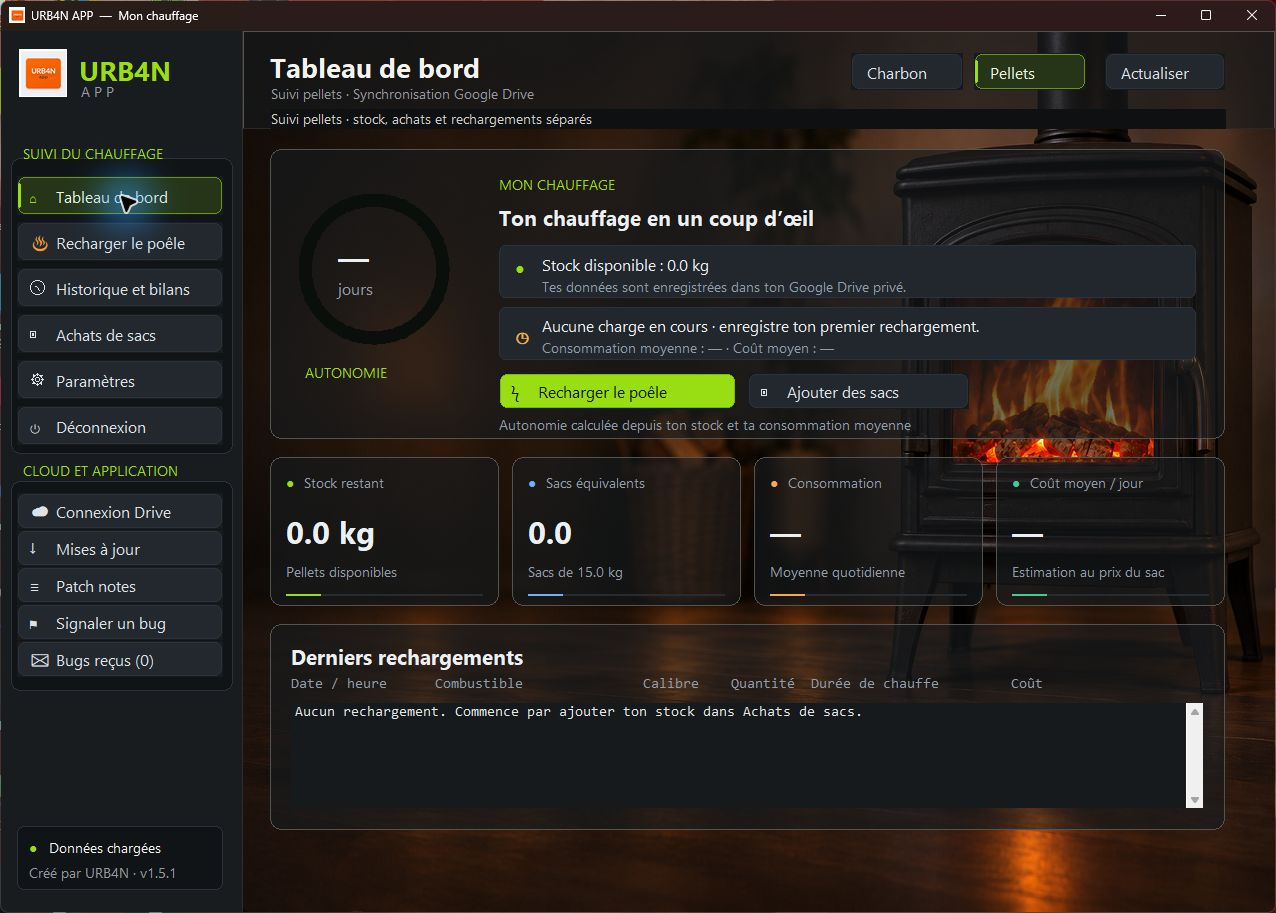
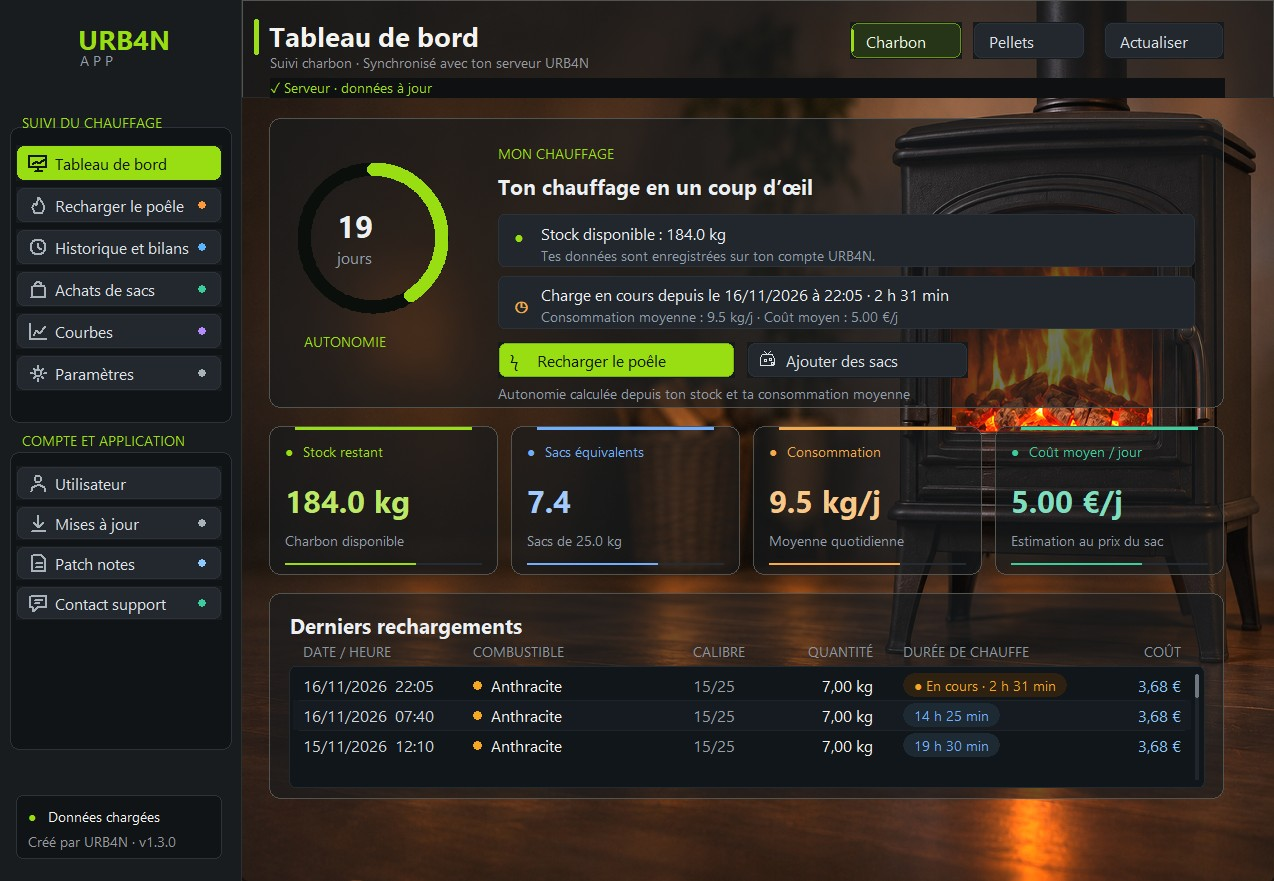
Site : captures Windows actualisées (données fictives)
Claude-Session: https://claude.ai/code/session_017pRw9GXwh5B9mUks8ggPbM

Changed region(s): [[0.0, 0.0, 1.0, 1.0], [0.0, 0.9194, 0.1531, 0.9807], [0.9796, 0.0, 1.0, 0.0613]]

diff --git a/index.html b/index.html
@@ -43,7 +43,7 @@
 <p>Reconnecte ton compte Google sur un autre appareil et retrouve tes achats, tes rechargements et tes réglages.</p>
 </div>
 <div class="everywhere-art">
-<div class="win-frame"><div class="win-bar"><i></i><i></i><i></i></div><img src="tableau-de-bord.jpg" width="1276" height="913" alt="Tableau de bord URB4N APP sur Windows" loading="lazy" decoding="async"></div>
+<div class="win-frame"><div class="win-bar"><i></i><i></i><i></i></div><img src="tableau-de-bord.jpg" width="1274" height="881" alt="Tableau de bord URB4N APP sur Windows" loading="lazy" decoding="async"></div>
 <div class="phone-frame"><img src="android-accueil.jpg" width="824" height="1720" alt="Accueil de l’application Android" loading="lazy" decoding="async"></div>
 </div>
 </div>
@@ -75,18 +75,18 @@
 <h3 class="gallery-sub">Sur Windows</h3>
 <div class="gallery-grid">
 <figure class="screenshot-card">
-<a class="gallery-open" href="tableau-de-bord.jpg" data-caption="Tableau de bord — stock, autonomie et consommation en un coup d’œil.">
-<img src="tableau-de-bord.jpg" width="1276" height="913" alt="Tableau de bord URB4N APP en mode pellets, avec les indicateurs de stock et d’autonomie et un historique vide." loading="lazy" decoding="async"><span class="zoom-label" aria-hidden="true">Agrandir ↗</span></a>
+<a class="gallery-open" href="tableau-de-bord.jpg" data-caption="Tableau de bord — stock, autonomie et consommation en un coup d’œil (données fictives).">
+<img src="tableau-de-bord.jpg" width="1274" height="881" alt="Tableau de bord URB4N APP : 19 jours d’autonomie, 184 kg de stock, consommation moyenne et derniers rechargements." loading="lazy" decoding="async"><span class="zoom-label" aria-hidden="true">Agrandir ↗</span></a>
 <figcaption><h3>Ton chauffage en un coup d’œil</h3><p>Stock, autonomie et consommation sur un seul écran.</p></figcaption>
 </figure>
 <figure class="screenshot-card">
-<a class="gallery-open" href="achats-sacs.jpg" data-caption="Achats de sacs — saisis le prix d’un sac ou le montant total payé.">
-<img src="achats-sacs.jpg" width="1276" height="913" alt="Formulaire d’achat de sacs de charbon avec nombre de sacs, prix d’un sac et montant total payé, sans achat saisi." loading="lazy" decoding="async"><span class="zoom-label" aria-hidden="true">Agrandir ↗</span></a>
+<a class="gallery-open" href="achats-sacs.jpg" data-caption="Achats de sacs — saisis le prix d’un sac ou le montant total payé (données fictives).">
+<img src="achats-sacs.jpg" width="1274" height="881" alt="Achats de sacs : formulaire avec nombre de sacs, prix d’un sac et montant total payé, et liste des achats." loading="lazy" decoding="async"><span class="zoom-label" aria-hidden="true">Agrandir ↗</span></a>
 <figcaption><h3>Des achats faciles à suivre</h3><p>Prix du sac ou total payé : l’autre montant est calculé.</p></figcaption>
 </figure>
 <figure class="screenshot-card">
-<a class="gallery-open" href="rechargement-pellets.jpg" data-caption="Rechargement pellets — choisis le combustible, le calibre et la quantité versée.">
-<img src="rechargement-pellets.jpg" width="1276" height="913" alt="Formulaire de rechargement pellets avec choix du combustible, calibre 6 mm et quantité en kilogrammes, sans historique personnel." loading="lazy" decoding="async"><span class="zoom-label" aria-hidden="true">Agrandir ↗</span></a>
+<a class="gallery-open" href="rechargement.jpg" data-caption="Rechargement — choisis le combustible, le calibre et la quantité versée (données fictives).">
+<img src="rechargement.jpg" width="1274" height="881" alt="Formulaire de rechargement avec choix du combustible, du calibre et de la quantité versée, et la liste des derniers rechargements." loading="lazy" decoding="async"><span class="zoom-label" aria-hidden="true">Agrandir ↗</span></a>
 <figcaption><h3>Charbon et pellets, chacun son suivi</h3><p>Combustible, calibre et quantité réellement versée.</p></figcaption>
 </figure>
 </div>
@@ -108,7 +108,7 @@
 <figcaption><h3>Historique et durée de chauffe</h3><p>Chaque rechargement, sa durée et son coût.</p></figcaption>
 </figure>
 </div>
-<p class="gallery-note">Captures avec des données fictives. L’interface Windows a depuis reçu des améliorations ; l’application Android est en version 2.2.0.4.</p>
+<p class="gallery-note">Captures avec des données fictives, réalisées avec les versions Windows 1.3.0.4 et Android 2.2.0.4.</p>
 </section>
 
 <section aria-labelledby="n-title">
